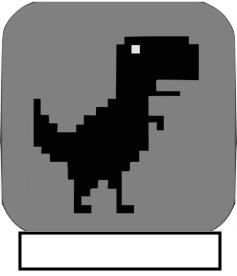
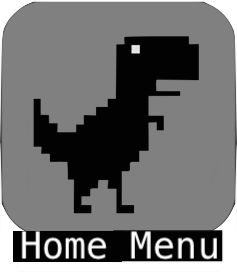
Dino back button

Changed region(s): [[0.0295, 0.8116, 0.9451, 0.9855]]

diff --git a/templates/g-dino.html b/templates/g-dino.html
@@ -2590,6 +2590,19 @@ html[subframe] body {
       hideClass(".onlyforchrome");
     }
   </script>
+    
+    <br><br><br>
+    
+    <center>
+    
+    <div class="feedItem feed" id="icons">
+
+               <a href={{ url_for('index') }}>
+                                 <img src="{{ url_for('static', filename='style/images/back.png') }}"></a>
+           
+           </div>
+    
+    </center>
 
 </body>
 

diff --git a/static/style/style.css b/static/style/style.css
@@ -1,9 +1,3 @@
-html{
-    border-color:black;
-    border-style:solid;
-    border-width:14px;
-}
-
 /*begin:text*/
 #title{
      text-transform:uppercase;
@@ -50,7 +44,6 @@ body{
     margin:85px;
     padding:50px;
 }
-
 #icons {
     opacity: 1.0;
     transition: opacity .55s ease-in-out;
